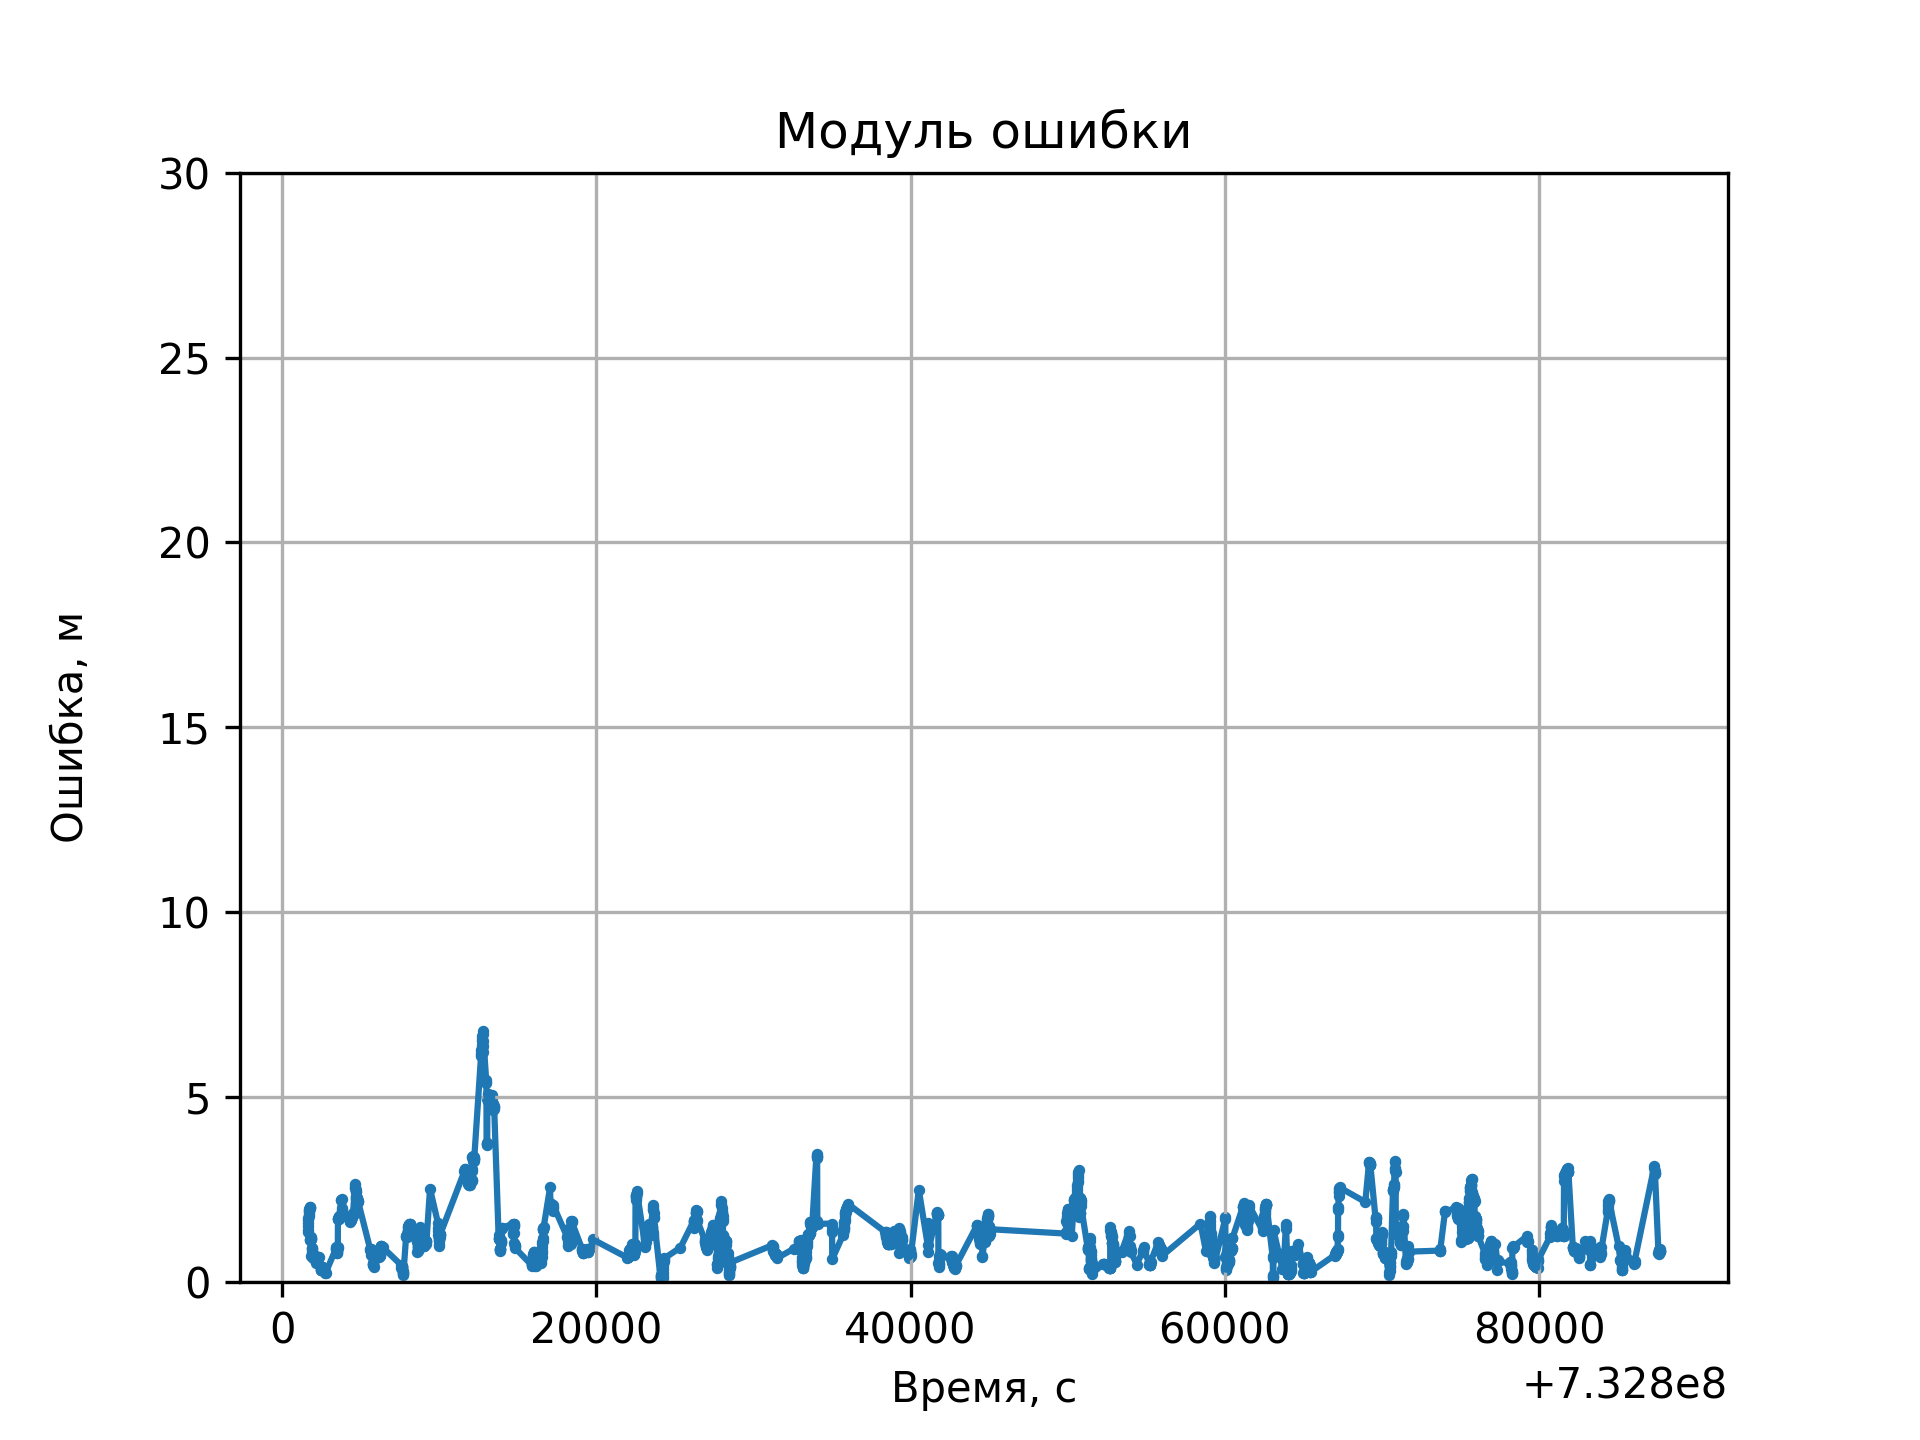
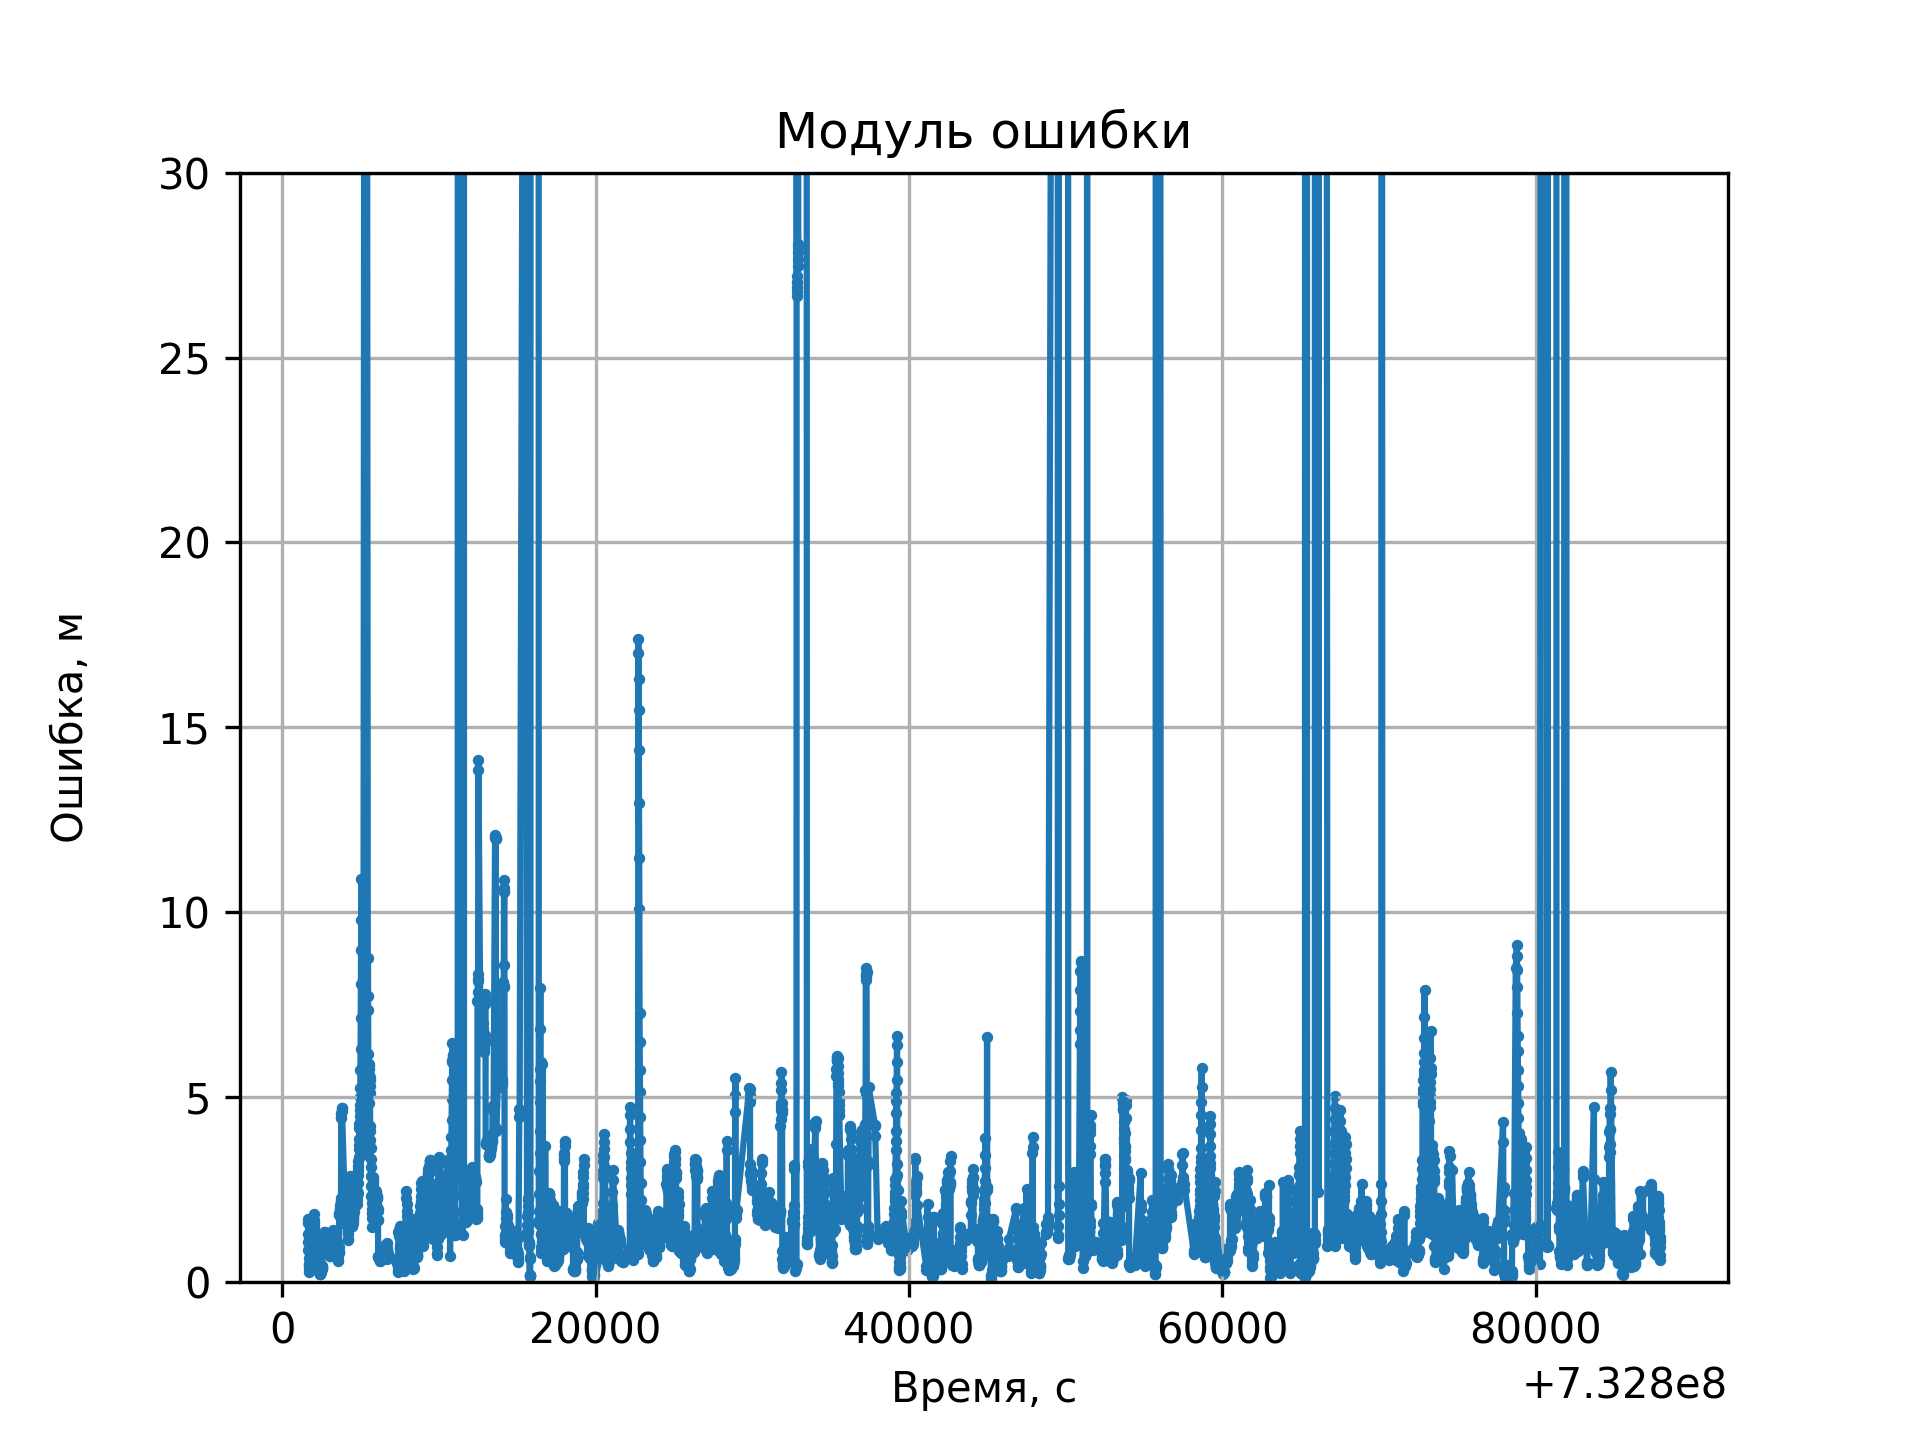
logger

Changed region(s): [[0.1562, 0.125, 0.875, 0.9375]]

diff --git a/src/SatNav.cpp b/src/SatNav.cpp
@@ -8,6 +8,8 @@ SatNav::SatNav(const std::string& gnv_filename, const std::string& gps_filename,
 }
 
 void SatNav::solve(unsigned ti, unsigned tf, char et) {
+    logger.log("Beginning to solve...");
+
     error_type = et;
 
     for (auto raw_mg_it = raw_measurements_groupped.begin();
@@ -54,16 +56,26 @@ void SatNav::solve(unsigned ti, unsigned tf, char et) {
         refined_measurements_groupped.push_back(ref_mg);
 
         SolutionState solution = calculate_solution(ref_mg);
+        if (!solution.is_solved) continue;
 
-        if (solution.is_solved) {
+        std::vector<unsigned> low = check_low(solution, ref_mg);
+        if (low.size() > 0) {
+            for (unsigned prn_id : low) {
+                unsigned prn_index = prn_id - 1;
+                ref_mg.refined_measurements[prn_index].is_present = false;
+            }
 
-            // low
-
-            solution_states.push_back(solution);
+            solution = calculate_solution(ref_mg);
+            if (!solution.is_solved) continue;
         }
+
+        solution_states.push_back(solution);
+
     }
    
     error_type = '0';
+
+    logger.log("Finished solving");
 }
 
 RefinedMeasurement SatNav::refine_raw(const RawMeasurement& raw_m) {
@@ -215,6 +227,25 @@ bool SatNav::check_fading(const RawMeasurement& raw_m,
     return false;
 }
 
+std::vector<unsigned> SatNav::check_low(const SolutionState& solution, const RefinedMeasurementGroupped& ref_mg) {
+    std::vector<unsigned> low;
+
+    for (unsigned prn_id = 1; prn_id <= 32; prn_id++) {
+        unsigned prn_index = prn_id - 1;
+        RefinedMeasurement ref_m = ref_mg.refined_measurements[prn_index];
+
+        if (!ref_m.is_present) continue;
+        
+        std::vector<double> gps_relative = ref_m.gps_position - solution.position;
+        double zenith_angle = angle_between(solution.position, gps_relative) * 180.0 * M_1_PI;
+        if (90.0 - zenith_angle < mask_angle) {
+            low.push_back(prn_id);
+        }
+    }
+
+    return low;
+}
+
 RefinedMeasurement SatNav::hatch_filter(const RefinedMeasurement& ref_m) {
     unsigned prn_index = ref_m.prn_id - 1;
 
@@ -260,4 +291,8 @@ const State& SatNav::get_true_state_at(unsigned time) {
 
 const std::vector<SolutionState>& SatNav::get_solution_states() const {
     return solution_states;
+}
+
+const std::vector<RefinedMeasurementGroupped>& SatNav::get_refined_measurements_groupped() const {
+    return refined_measurements_groupped;
 }

diff --git a/src/Plotter.cpp b/src/Plotter.cpp
@@ -17,9 +17,9 @@ void Plotter::plot_errors_norm(double ymin, double ymax) {
         unsigned time = ss.time;
         State ts = problem.get_true_state_at(time);
 
-        double norm = abs(ss.position - ts.position);
+        double error_norm = abs(ss.position - ts.position);
 
-        file << time << sep << norm << std::endl;
+        file << time << sep << error_norm << std::endl;
     }
 
     file.close();
@@ -27,8 +27,47 @@ void Plotter::plot_errors_norm(double ymin, double ymax) {
     run_py_plotter(filename);
 }
 
-void Plotter::plot_errors_prs() {
+void Plotter::plot_errors_pr(double ymin, double ymax) {
+    std::string filename = "errors-pr";
 
+    std::ofstream file;
+    file.open("../results/" + filename + ".csv", std::fstream::out);
+
+    file << "Модуль ошибки псевдодальности" << '\t' << "Время, с" << '\t' << "Ошибка, м" << std::endl;
+    file << ymin << '\t' << ymax << std::endl;
+
+    for (const auto& ref_mg : problem.get_refined_measurements_groupped()) {
+        unsigned time = ref_mg.time;
+        State ts = problem.get_true_state_at(time);
+
+        file << time << sep;
+
+        for (unsigned prn_id = 1; prn_id <= 32; prn_id++) {
+            unsigned prn_index = prn_id - 1;
+            RefinedMeasurement ref_m = ref_mg.refined_measurements[prn_index];
+
+            if (ref_m.is_present) {
+                double error_pr = abs(ref_m.gps_position - ts.position) - ref_m.pseudorange;
+                file << error_pr;
+            }
+
+            file << sep;
+        }
+
+        file << std::endl;
+    }
+
+    file.close();
+
+    run_py_plotter(filename);
+}
+
+void plot_errors_by_type(char error_type, double ymin = 0, double ymax = 0) {
+
+}
+
+void plot_map_iono() {
+    
 }
 
 void Plotter::run_py_plotter(const std::string& arg) const {

diff --git a/src/SatNav.hpp b/src/SatNav.hpp
@@ -8,6 +8,7 @@
 #include "Structures.hpp"
 #include "GPSHandler.hpp"
 #include "DataParser.hpp"
+#include "Logger.hpp"
 
 class SatNav {
 
@@ -17,6 +18,7 @@ public:
 
     const State& get_true_state_at(unsigned time);
     const std::vector<SolutionState>& get_solution_states() const;
+    const std::vector<RefinedMeasurementGroupped>& get_refined_measurements_groupped() const;
 
 private:
     RefinedMeasurement refine_raw(const RawMeasurement& raw_m);
@@ -24,6 +26,7 @@ private:
     SolutionState calculate_solution(const RefinedMeasurementGroupped& ref_mg) const;
     bool check_fading(const RawMeasurement& raw_m,
                       const std::vector<RawMeasurementGroupped>::iterator& raw_mg_it);
+    std::vector<unsigned> check_low(const SolutionState& solution, const RefinedMeasurementGroupped& ref_mg);
     RefinedMeasurement hatch_filter(const RefinedMeasurement& raw_m);
     
     GPSHandler handler;
@@ -33,7 +36,9 @@ private:
     std::vector<RawMeasurementGroupped> raw_measurements_groupped;
     std::vector<RefinedMeasurementGroupped> refined_measurements_groupped;
 
-    State empty_state; // костыль
+    State empty_state; // костыль для get_true_state_at
+
+    Logger logger;
 
     double c = 2.99792458e8;
     double earth_rotation_rate = 7.2921151467e-5;

diff --git a/src/Plotter.hpp b/src/Plotter.hpp
@@ -12,7 +12,10 @@ class Plotter {
 public:
     Plotter(SatNav& problem);
     void plot_errors_norm(double ymin = 0, double ymax = 0);
-    void plot_errors_prs();
+    void plot_errors_pr(double ymin = 0, double ymax = 0);
+    void plot_errors_by_type(char error_type, double ymin = 0, double ymax = 0);
+
+    void plot_map_iono();
 
 private:
     void run_py_plotter(const std::string& arg) const;

diff --git a/src/Logger.cpp b/src/Logger.cpp
@@ -1,0 +1,13 @@
+#include "Logger.hpp"
+
+Logger::Logger() {
+    file.open("../logs/log.txt", std::fstream::out);
+}
+
+Logger::~Logger() {
+    file.close();
+}
+
+void Logger::log(const std::string& line) {
+    file << line << std::endl;
+}

diff --git a/src/Logger.hpp b/src/Logger.hpp
@@ -1,0 +1,16 @@
+#pragma once
+
+#include <string>
+
+#include <fstream>
+
+class Logger {
+public:
+    Logger();
+    ~Logger();
+    
+    void log(const std::string& line);
+
+private:
+    std::ofstream file;
+};

diff --git a/src/main.cpp b/src/main.cpp
@@ -12,6 +12,7 @@ int main() {
 
     Plotter plotter(problem);
     plotter.plot_errors_norm(0, 30);
+    plotter.plot_errors_pr();
 
     return 0;
 }
